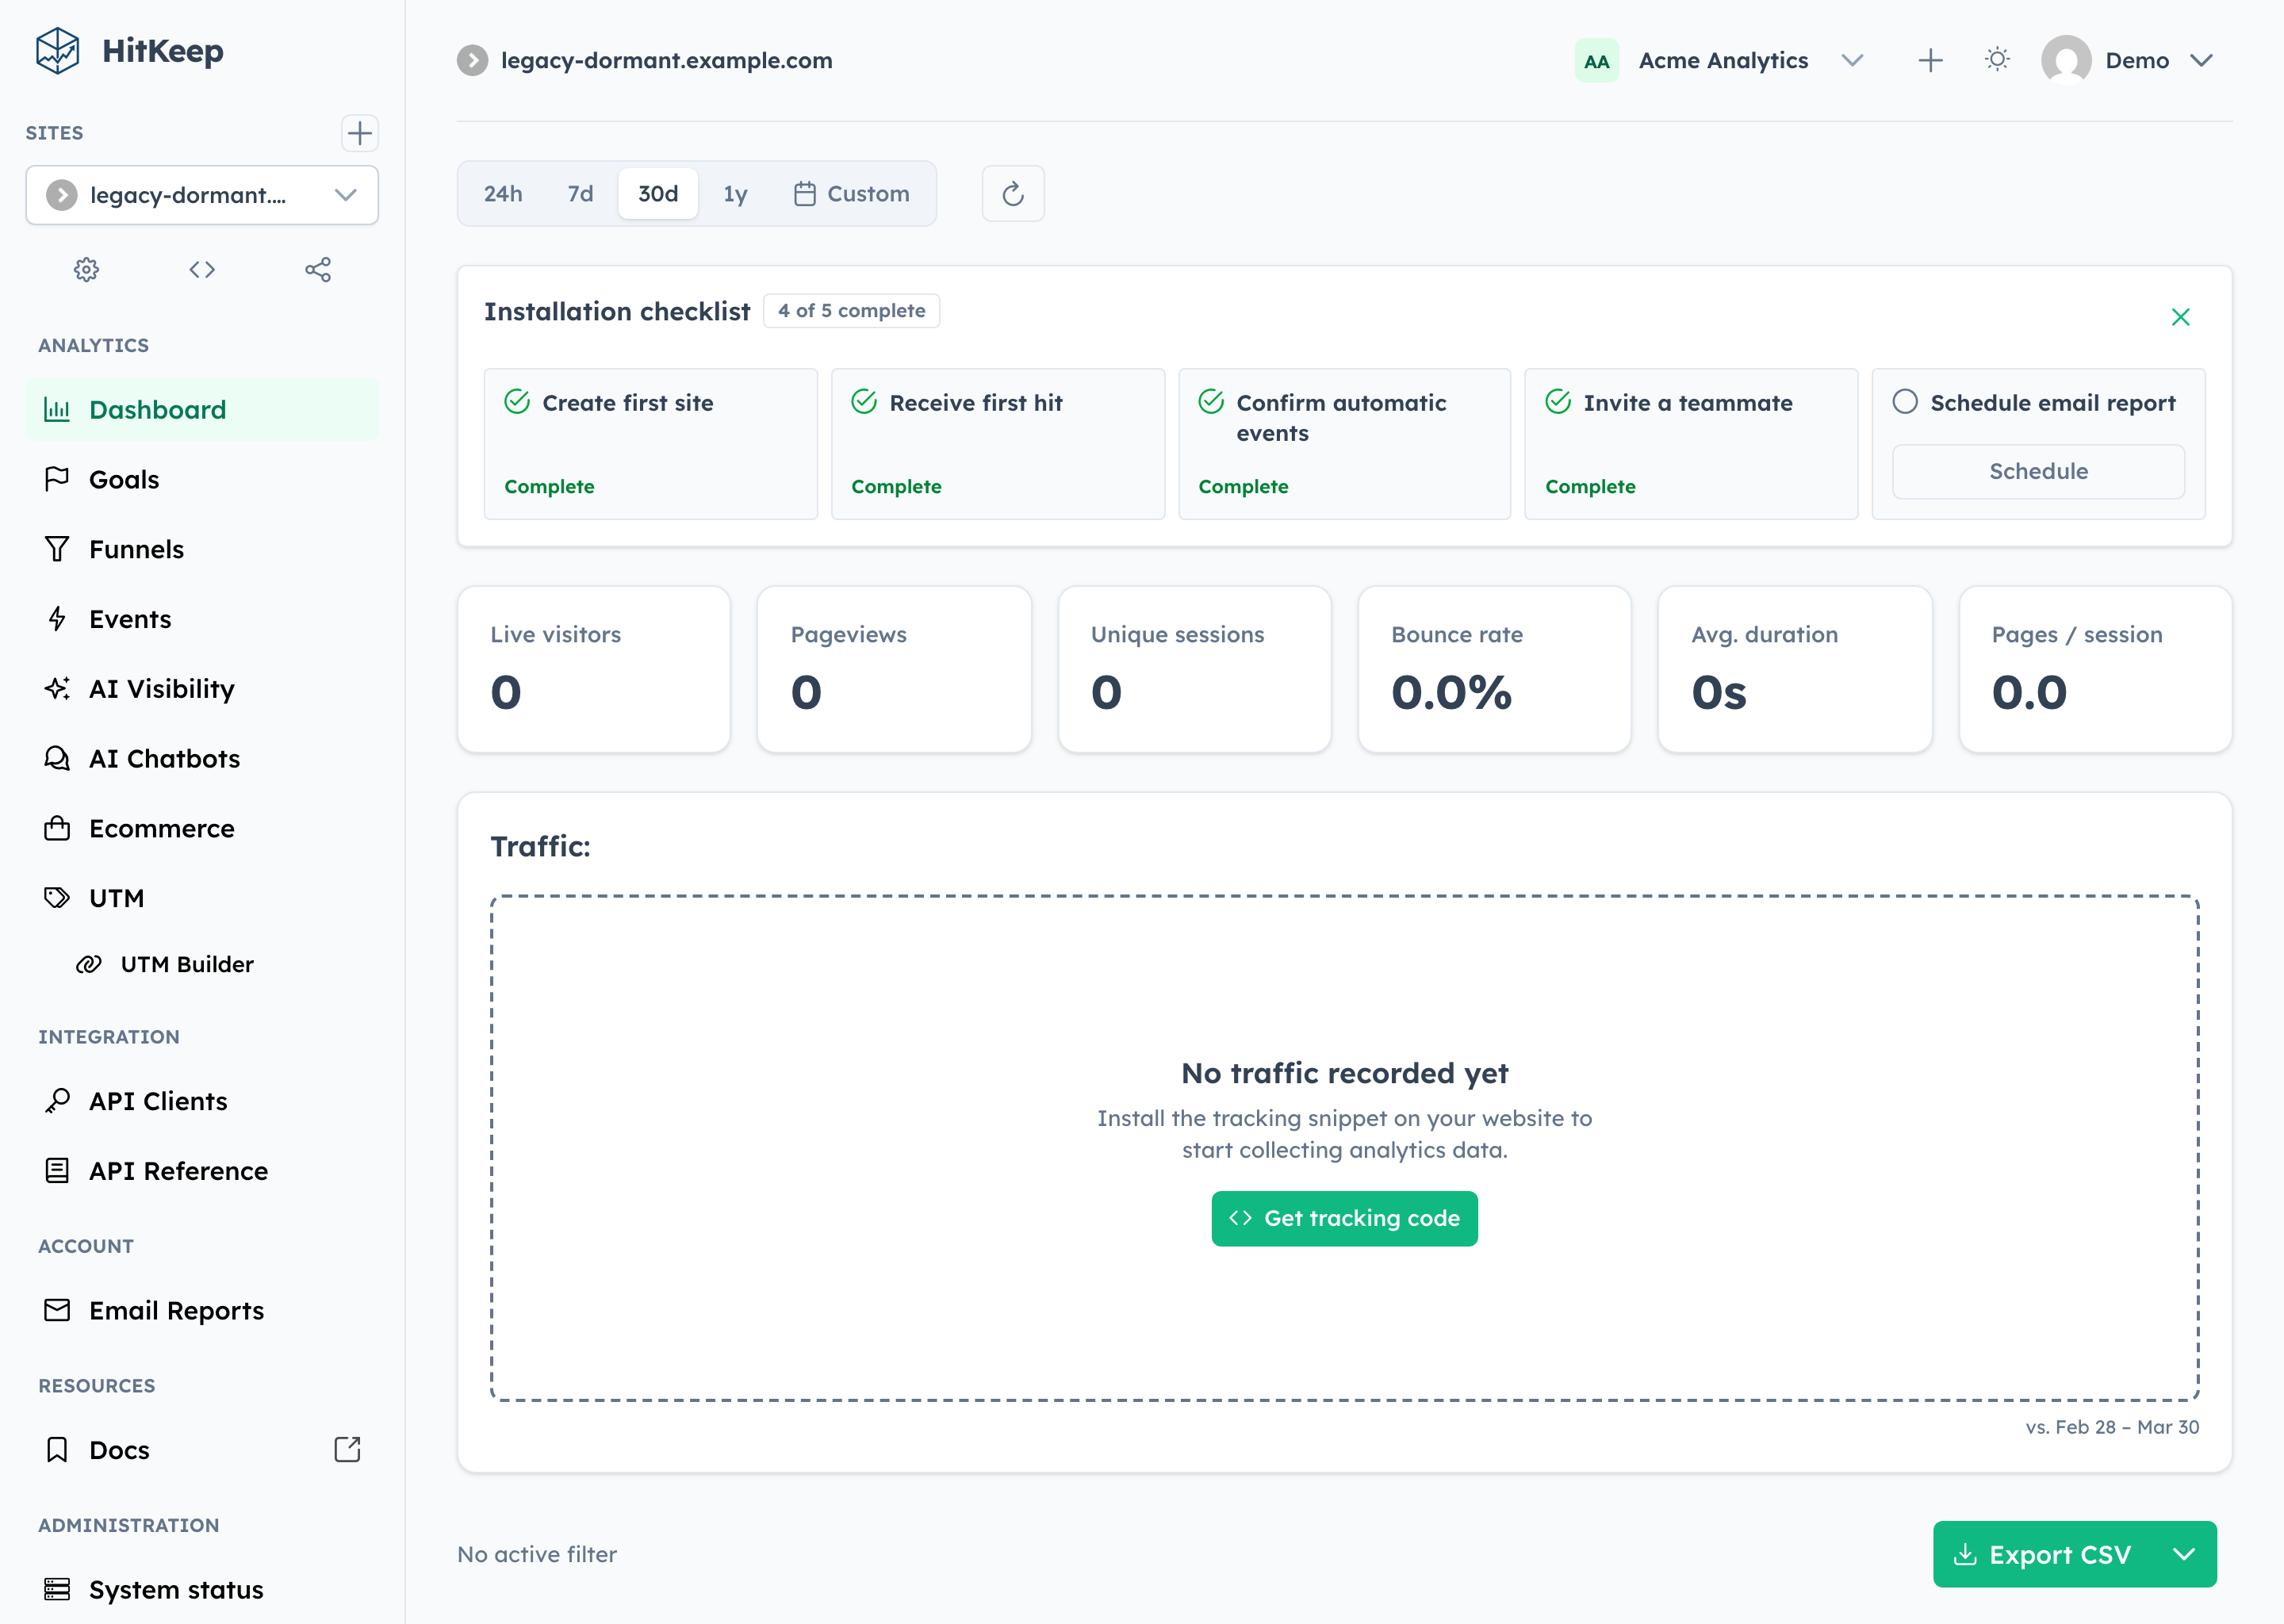
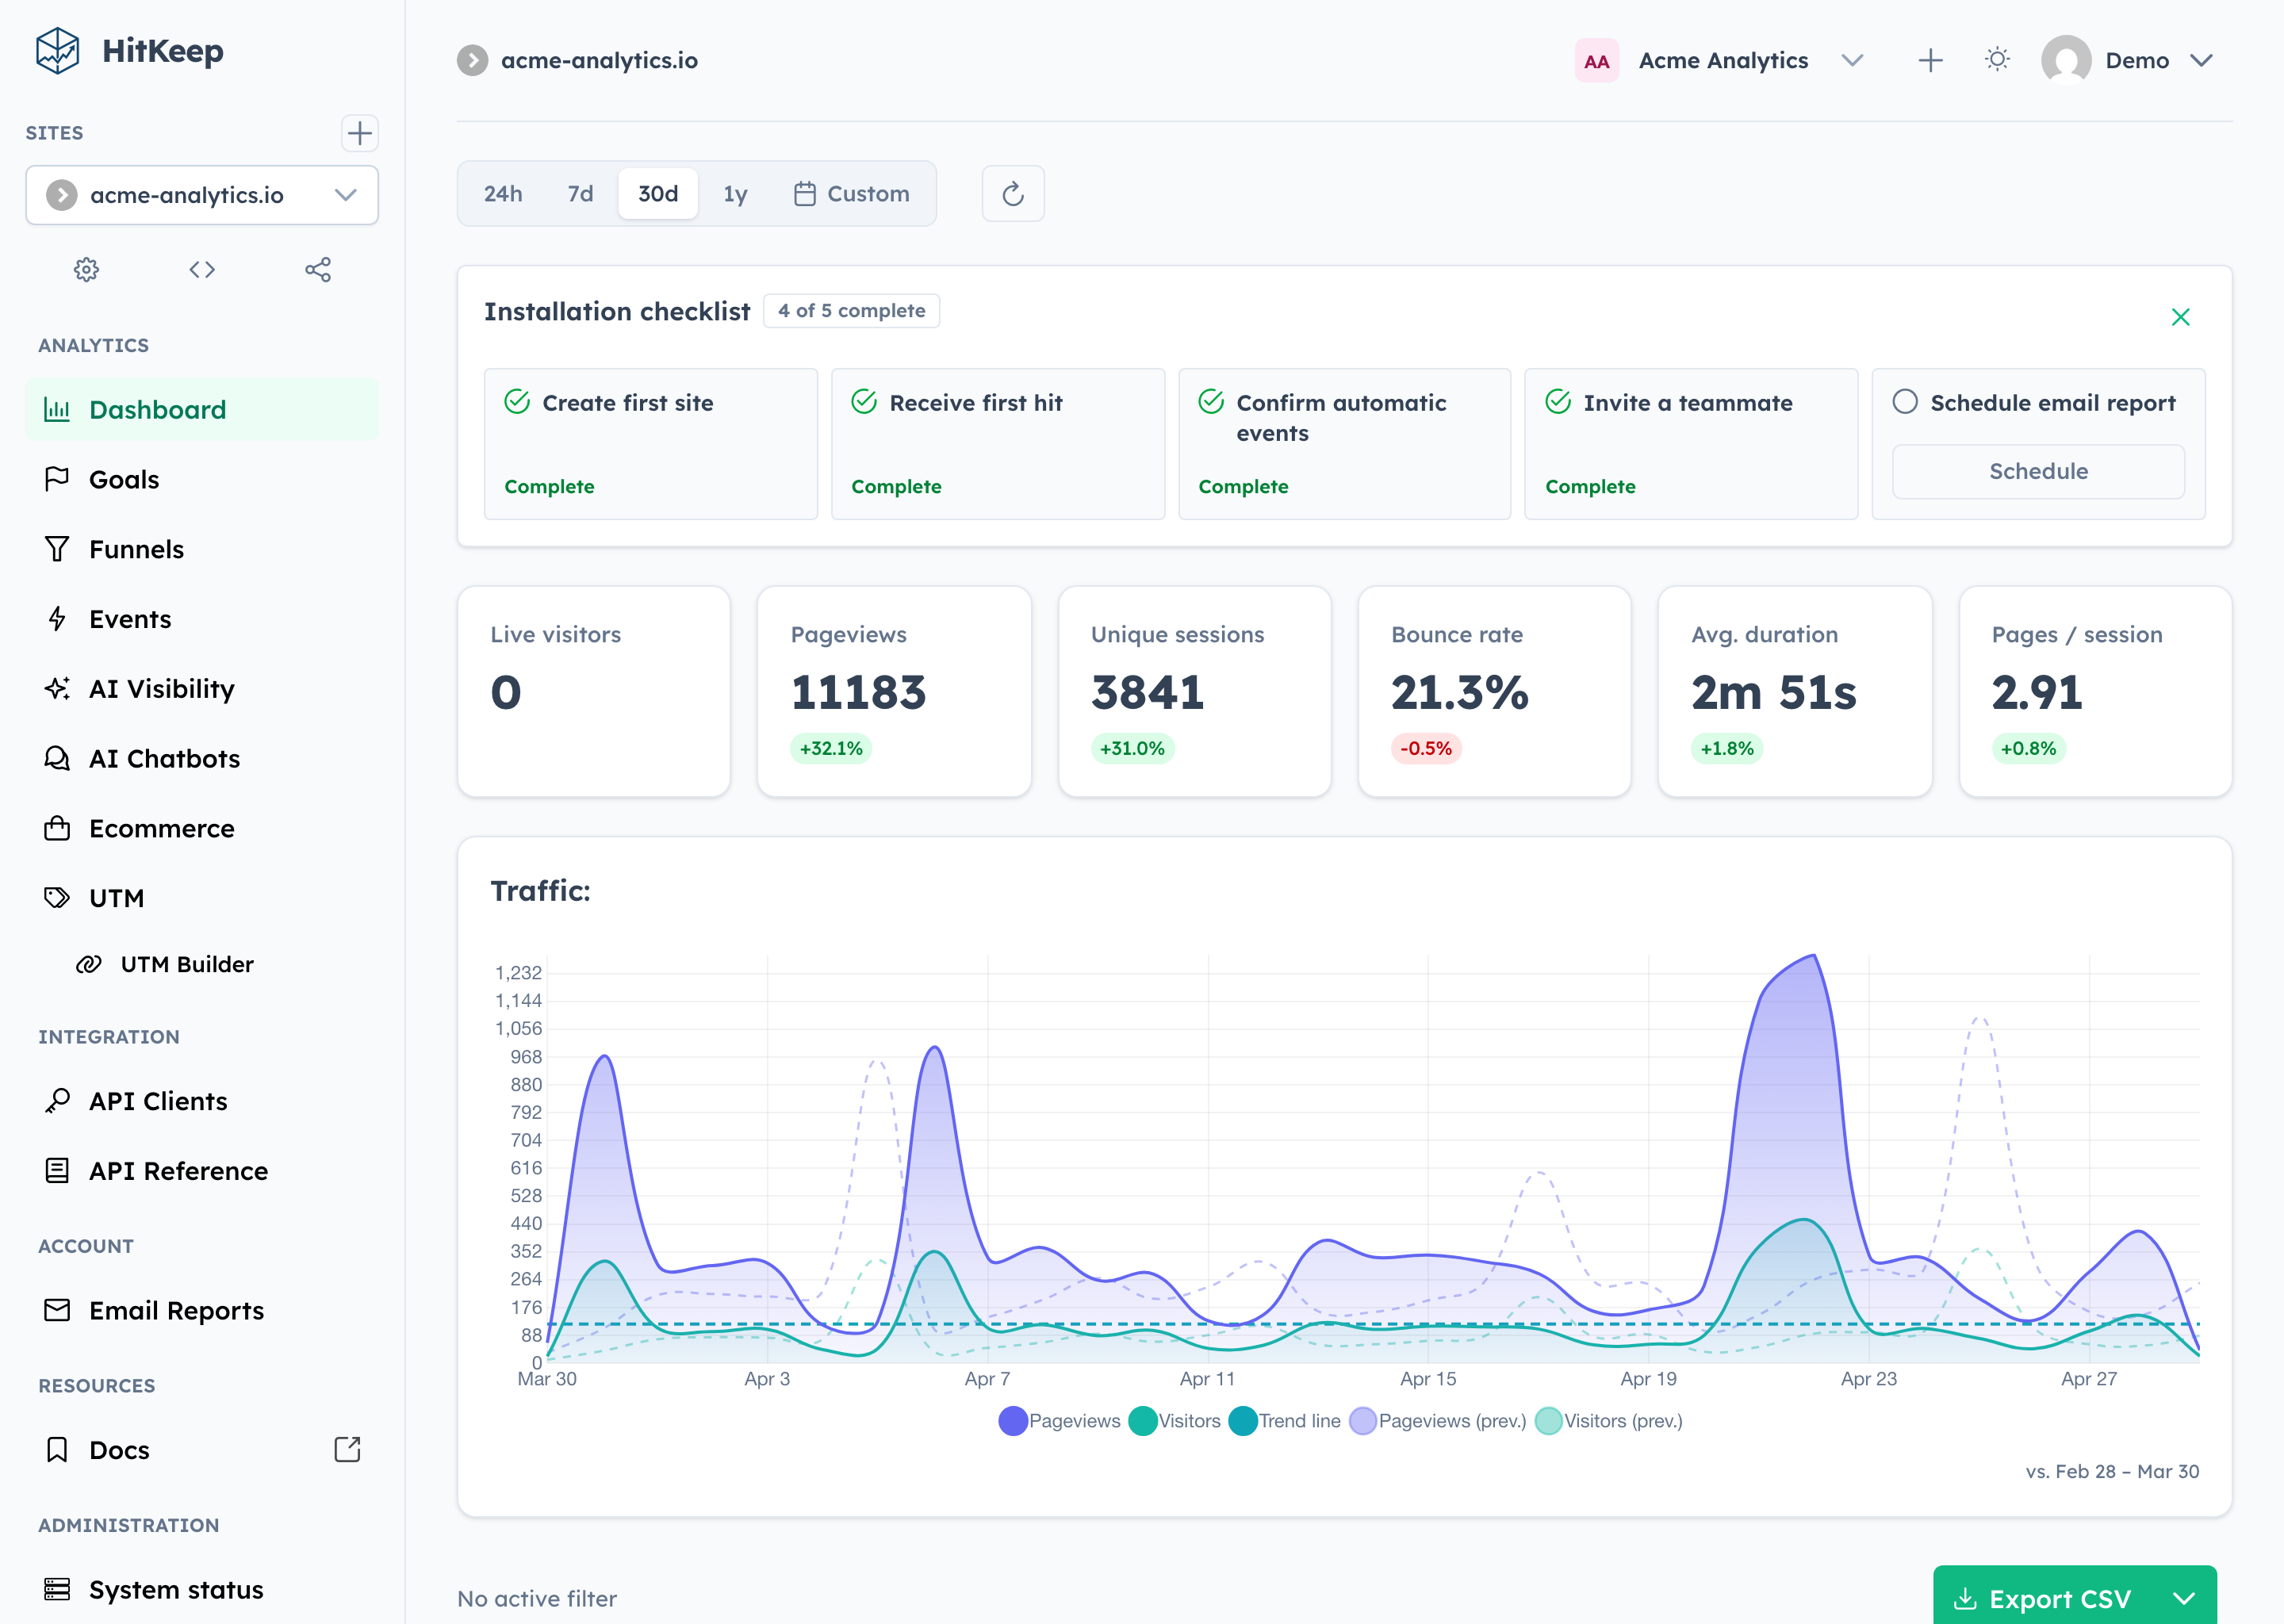
chore: update marketing and seed

diff --git a/cmd/seed/main_test.go b/cmd/seed/main_test.go
@@ -57,6 +57,39 @@ func TestEnsureUserResetsExistingUserPassword(t *testing.T) {
 	}
 }
 
+func TestSeedActivationFixturesKeepsPrimaryDemoSiteFirst(t *testing.T) {
+	ctx := context.Background()
+	store := database.NewStore(filepath.Join(t.TempDir(), "seed.db"))
+	if err := store.Connect(); err != nil {
+		t.Fatalf("connect store: %v", err)
+	}
+	defer store.Close()
+	if err := store.Migrate(ctx); err != nil {
+		t.Fatalf("migrate store: %v", err)
+	}
+
+	userID := ensureUser(ctx, store, "[email redacted]", "demo1234")
+	seedTeam(ctx, store, userID)
+
+	primary, err := ensureSiteInActiveTeam(ctx, store, userID, "acme-analytics.io")
+	if err != nil {
+		t.Fatalf("ensure primary site: %v", err)
+	}
+
+	seedActivationFixtures(ctx, store, userID, primary.ID)
+
+	sites, err := store.GetSites(ctx, userID)
+	if err != nil {
+		t.Fatalf("get sites: %v", err)
+	}
+	if len(sites) < 3 {
+		t.Fatalf("expected primary and activation fixture sites, got %d", len(sites))
+	}
+	if sites[0].ID != primary.ID {
+		t.Fatalf("expected primary demo site first, got %s (%s)", sites[0].Domain, sites[0].ID)
+	}
+}
+
 func seedPasswordMatches(t *testing.T, password string, encoded string) bool {
 	t.Helper()
 

diff --git a/cmd/seed/teams.go b/cmd/seed/teams.go
@@ -197,6 +197,22 @@ func seedActivationFixtures(ctx context.Context, store *database.Store, userID, 
 	if dormant != nil {
 		sitesToReset = append(sitesToReset, dormant.ID)
 	}
+
+	// Keep the analytics-rich primary site first in freshly seeded dashboards.
+	if err := store.Exec(ctx, "UPDATE sites SET created_at = ? WHERE id = ?", now, primarySiteID); err != nil {
+		slog.Warn("Failed to refresh primary demo site timestamp", "site_id", primarySiteID, "error", err)
+	}
+	if waiting != nil {
+		if err := store.Exec(ctx, "UPDATE sites SET created_at = ? WHERE id = ?", now.Add(-2*time.Hour), waiting.ID); err != nil {
+			slog.Warn("Failed to age waiting activation site", "site_id", waiting.ID, "error", err)
+		}
+	}
+	if dormant != nil {
+		if err := store.Exec(ctx, "UPDATE sites SET created_at = ? WHERE id = ?", now.Add(-3*time.Hour), dormant.ID); err != nil {
+			slog.Warn("Failed to age dormant activation site", "site_id", dormant.ID, "error", err)
+		}
+	}
+
 	for _, siteID := range sitesToReset {
 		_ = store.Exec(ctx, "DELETE FROM site_activity_hourly_counts WHERE site_id = ?", siteID)
 		_ = store.Exec(ctx, "DELETE FROM site_activity_summary WHERE site_id = ?", siteID)